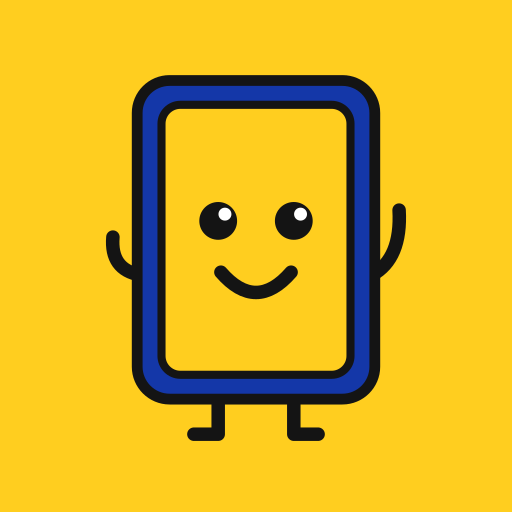
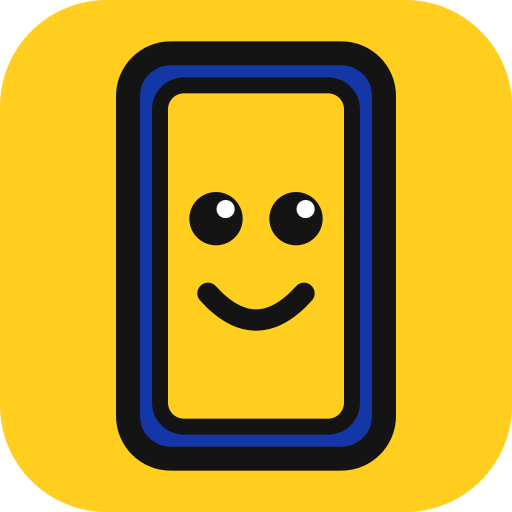
Deke como ícono y "Pokedeke" como nombre del sitio en Google
El ícono (pestaña, Google, celular y app) ahora es la cara de Deke sobre
amarillo. La portada declara el sitio con WebSite name "Pokedeke" y el título
empieza con "Pokedeke ·", para que Google muestre ese nombre en vez del dominio.

diff --git a/app/page.tsx b/app/page.tsx
@@ -181,6 +181,16 @@ export default function Inicio() {
 
   return (
     <>
+      {/* Así Google muestra "Pokedeke" como nombre del sitio, no "pokedeke.store". */}
+      <DatosEstructurados
+        datos={{
+          "@context": "https://schema.org",
+          "@type": "WebSite",
+          name: TIENDA.nombre,
+          alternateName: [`${TIENDA.nombre} Store`, "Pokedeke TCG"],
+          url: `${SITIO}/`,
+        }}
+      />
       <DatosEstructurados
         datos={{
           "@context": "https://schema.org",
@@ -189,7 +199,7 @@ export default function Inicio() {
           alternateName: [`${TIENDA.nombre} Store`, "Pokedeke TCG"],
           description: "Tienda de Pokémon TCG en Costa Rica: cartas sueltas, sobres, ETB y cajas en colones.",
           url: SITIO,
-          logo: `${SITIO}/icon.svg`,
+          logo: `${SITIO}/icono-512.png`,
           email: TIENDA.correo,
           telephone: `+${TIENDA.whatsapp}`,
           currenciesAccepted: "CRC",

diff --git a/app/layout.tsx b/app/layout.tsx
@@ -23,7 +23,7 @@ const rubik = Rubik({
 export const metadata: Metadata = {
   metadataBase: new URL(SITIO),
   title: {
-    default: `${TIENDA.nombre} Store · Tienda de Pokémon TCG en Costa Rica`,
+    default: `${TIENDA.nombre} · Tienda de Pokémon TCG en Costa Rica`,
     template: `%s · ${TIENDA.nombre}`,
   },
   description:
